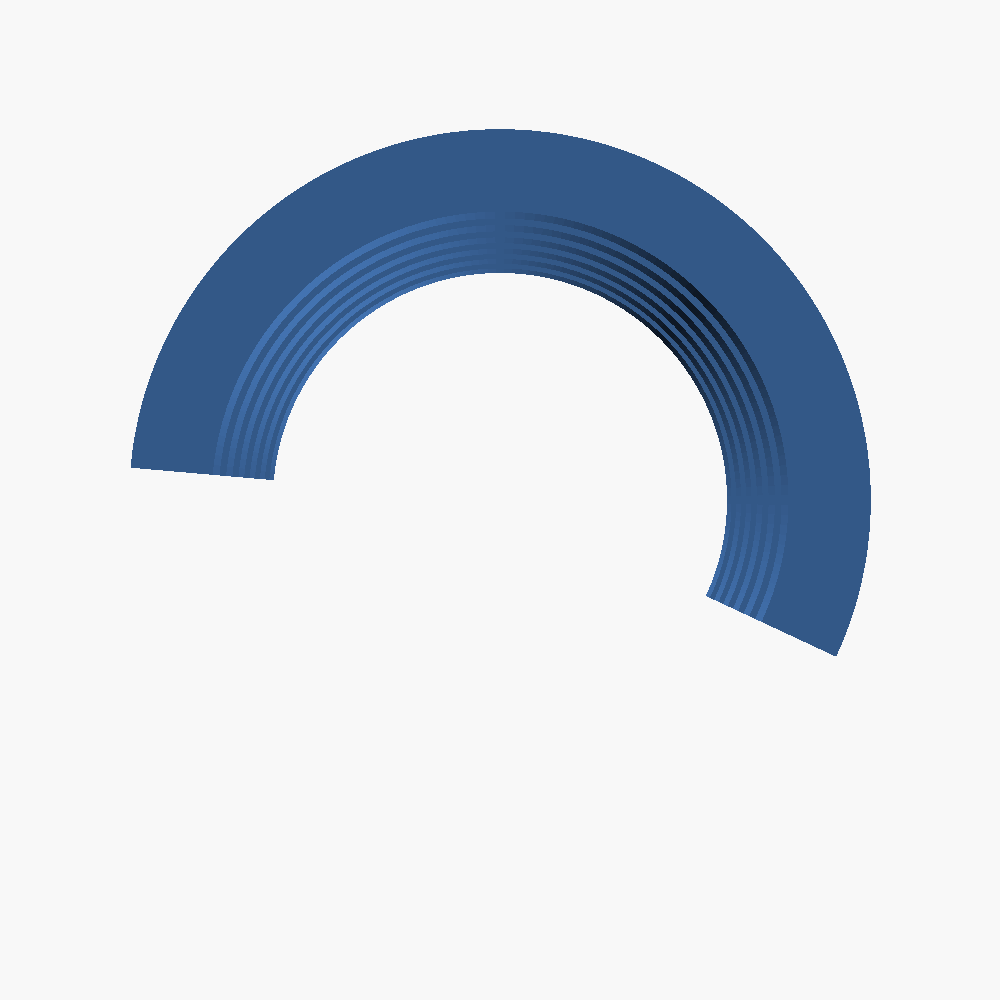
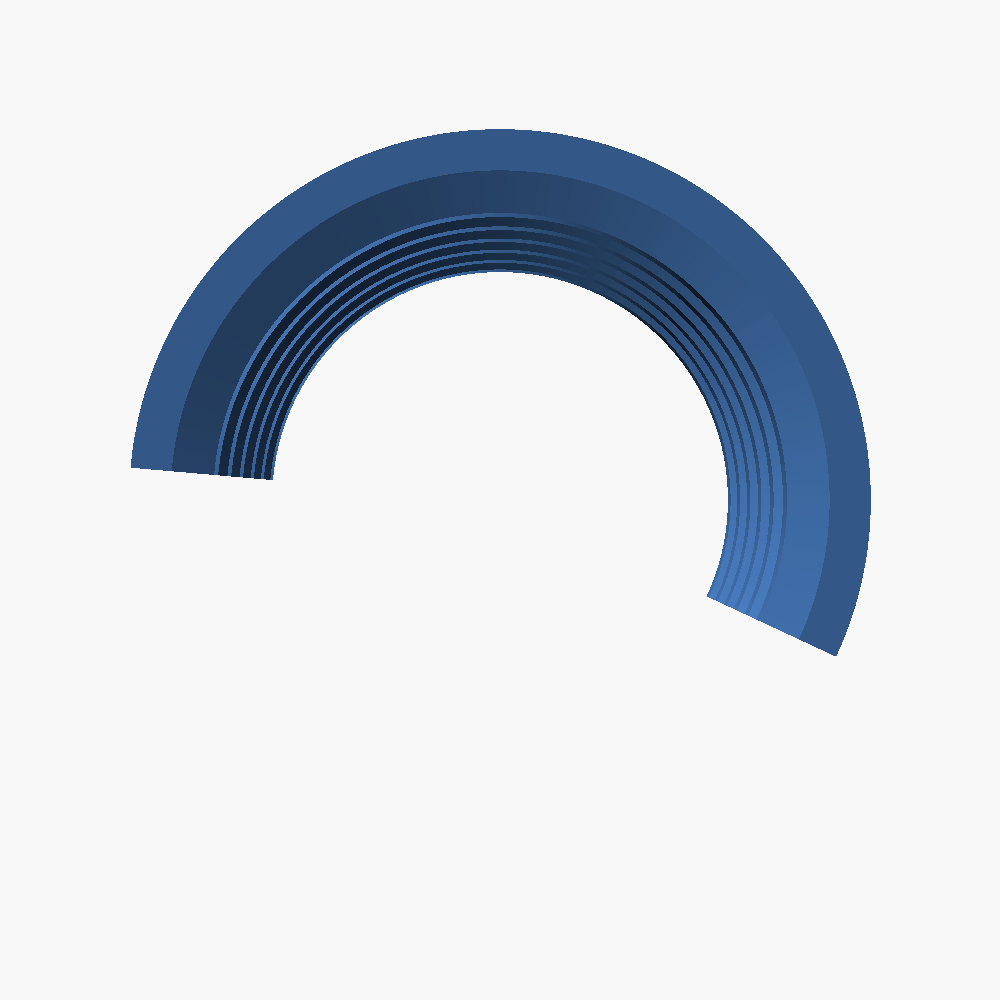
Add corr_chamfer for U-shaped corrugations matching real conduit

Changed region(s): [[0.155, 0.155, 0.837, 0.651]]

diff --git a/README.md b/README.md
@@ -54,6 +54,7 @@ All renders above (the 3D views and the dimensioned drawing) are regenerated by
 | `corr_depth` | `1` | How far the grip teeth bite into the conduit grooves (mm) |
 | `corr_width` | `1.5` | Width of each grip tooth along the pipe axis (mm) |
 | `groove_width` | `1.5` | Width of each recess (over a crest) along the axis (mm) |
+| `corr_chamfer` | `0.3` | Bevel on the tooth/recess edges (mm); `0` = sharp square teeth |
 | `corr_count` | `6` | Number of corrugation periods → sets the length |
 | `coverage_deg` | `200` | Degrees of the pipe circumference covered |
 | `flange_overhang` | `3` | How far the flange extends beyond the pipe width (mm) |
@@ -70,6 +71,9 @@ You give the two diameters and the rest is **derived**:
   `(bore_diameter − pipe_diameter) / 2` (here 1 mm radial).
 - The grip teeth bite an additional `corr_depth` into the conduit's grooves, so the part is
   thicker at the teeth and thinnest (= available material) at the recesses.
+- Real conduit crests and valleys are rounded/U-shaped rather than square. `corr_chamfer`
+  bevels the tooth and recess edges to match (set it to `0` for sharp square teeth). It must
+  be ≤ half the smaller of `corr_width`/`groove_width` (asserted in the model).
 - Flange Ø = `pipe_diameter + 2·flange_overhang` (here 22 mm) — catches on the wall hole.
 - Length = `corr_count · (corr_width + groove_width)` (always whole corrugation periods).
 
